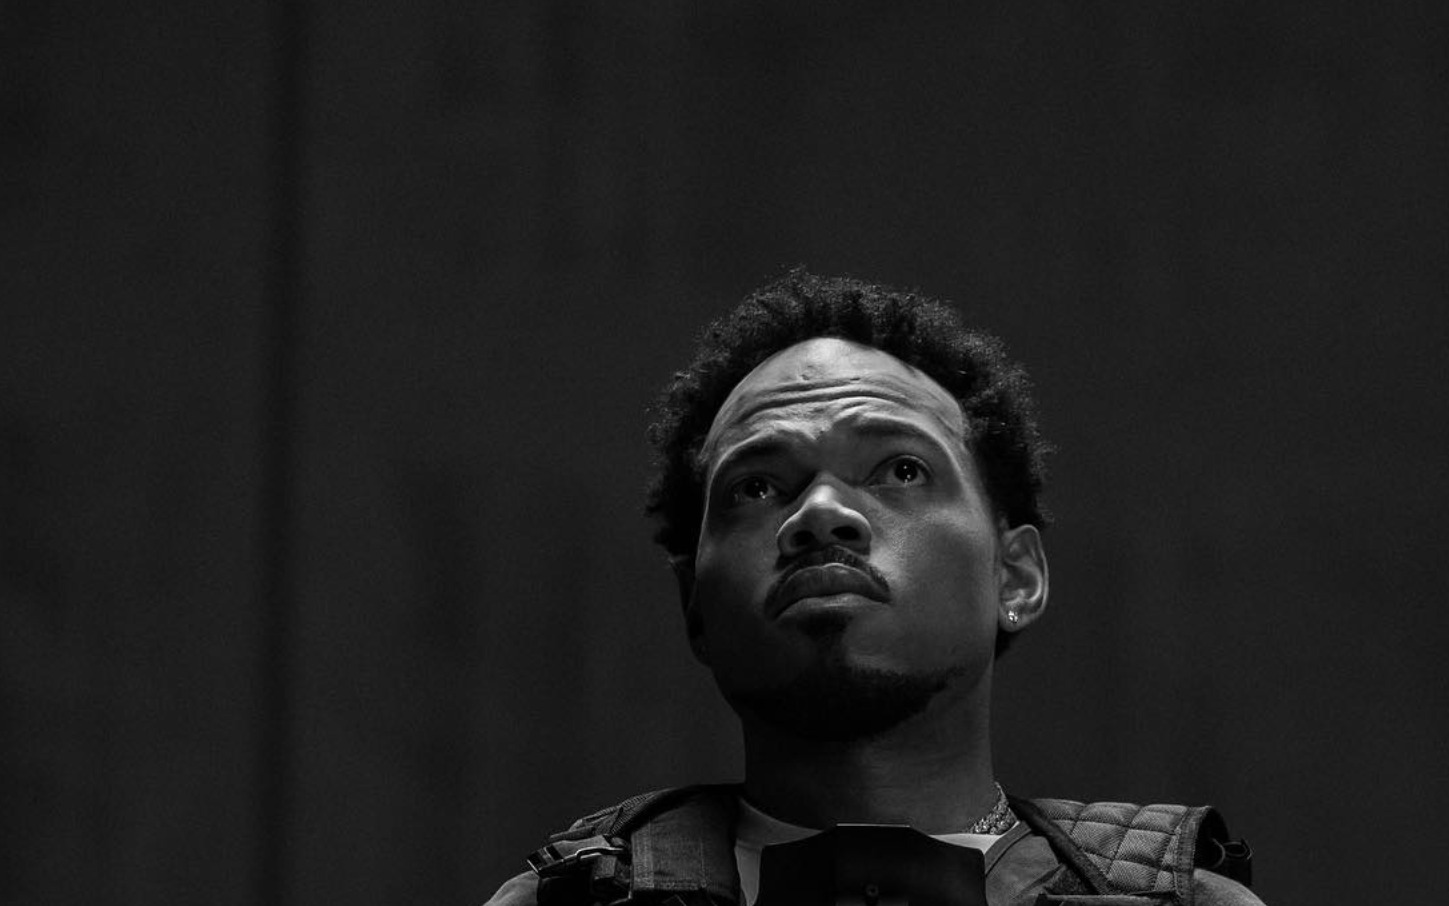
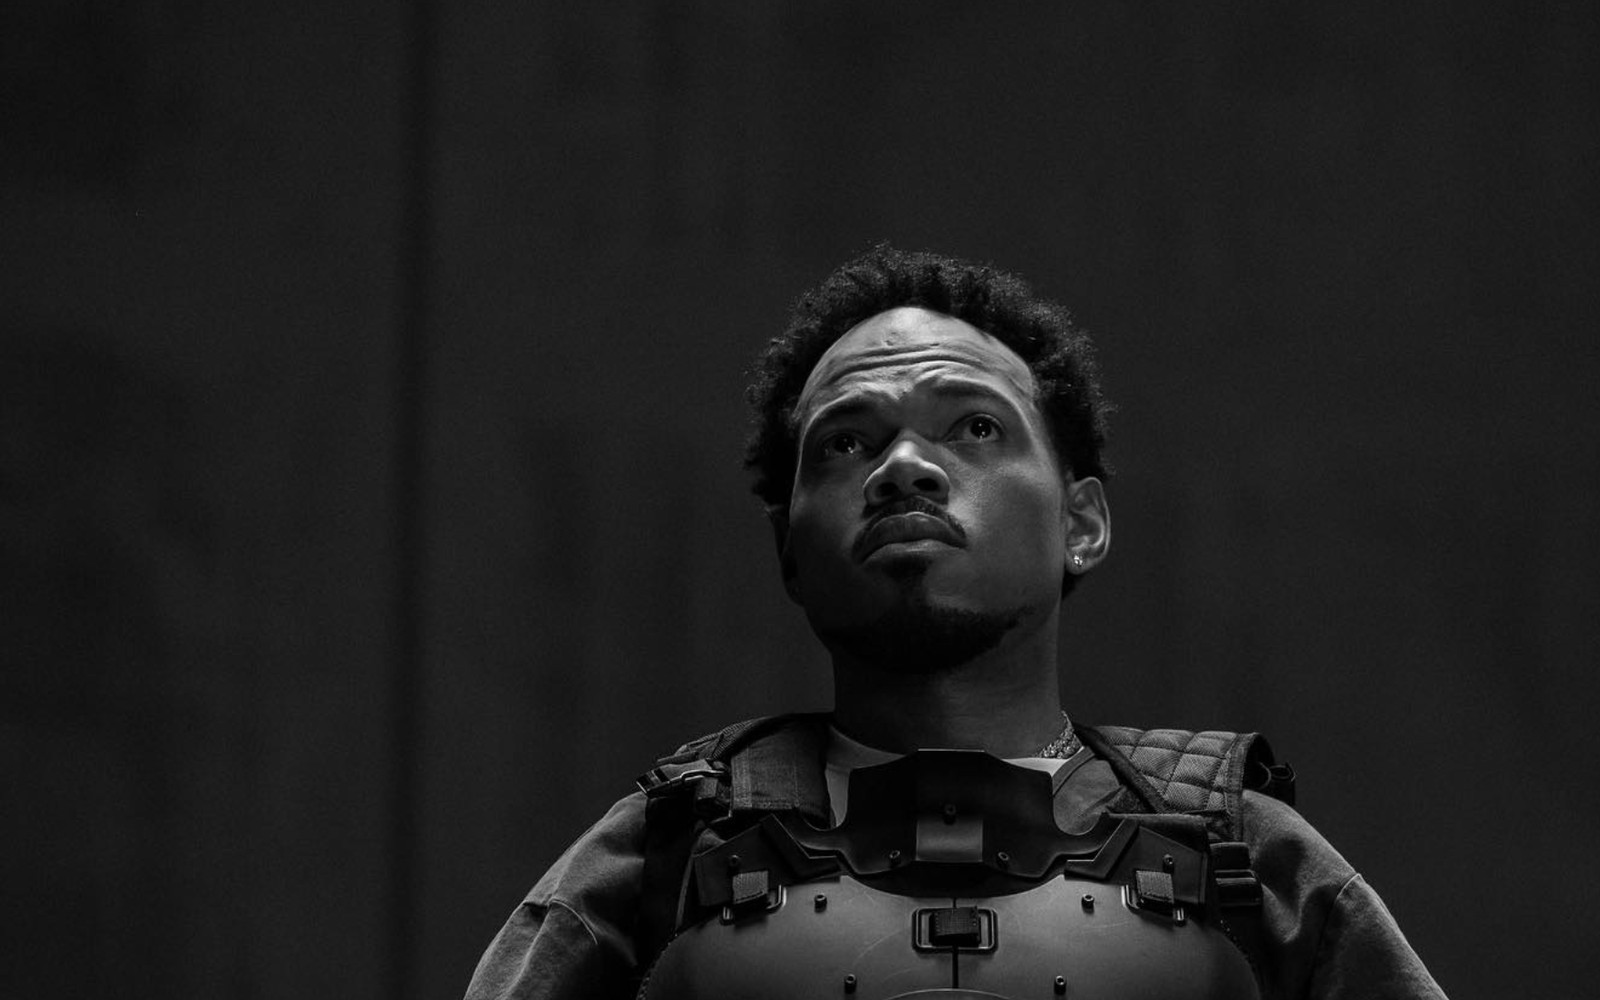
Update real thumbnails for Buried Alive, Highs & Lows, and Black Star Line Festival
Replaces placeholder/auto stills with Vaughn's supplied imagery: the armor
portrait (face-centered) for Buried Alive, the music-video still for The Highs
& The Lows, and the naval-uniform boat photo for the Black Star Line Festival
video card. Black Star Line gets a fresh filename to bust Next's image cache.

Changed region(s): [[0.2795, 0.2472, 0.9317, 1.0]]

diff --git a/data/projects.ts b/data/projects.ts
@@ -281,7 +281,7 @@ export const projects: Project[] = [
       'I served as the on-site producer in Accra, bringing on an entire crew of Ghanaian filmmakers to document the festival. We covered the full week of events, including a discussion between Chance the Rapper and Dave Chappelle at the University of Ghana.',
     ],
     youtubeId: 'cXmS3nC1WVU',
-    thumbnail: '/thumbnails/black-star-line-festival.jpg',
+    thumbnail: '/thumbnails/black-star-line-fest-boat.jpg',
   },
 
   {